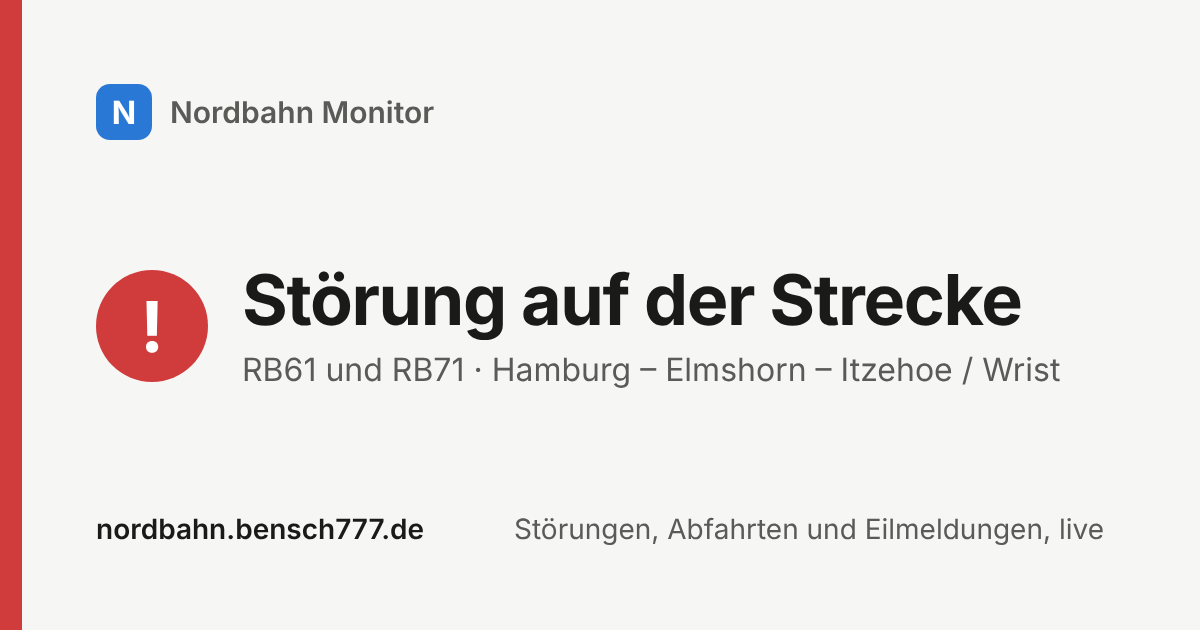
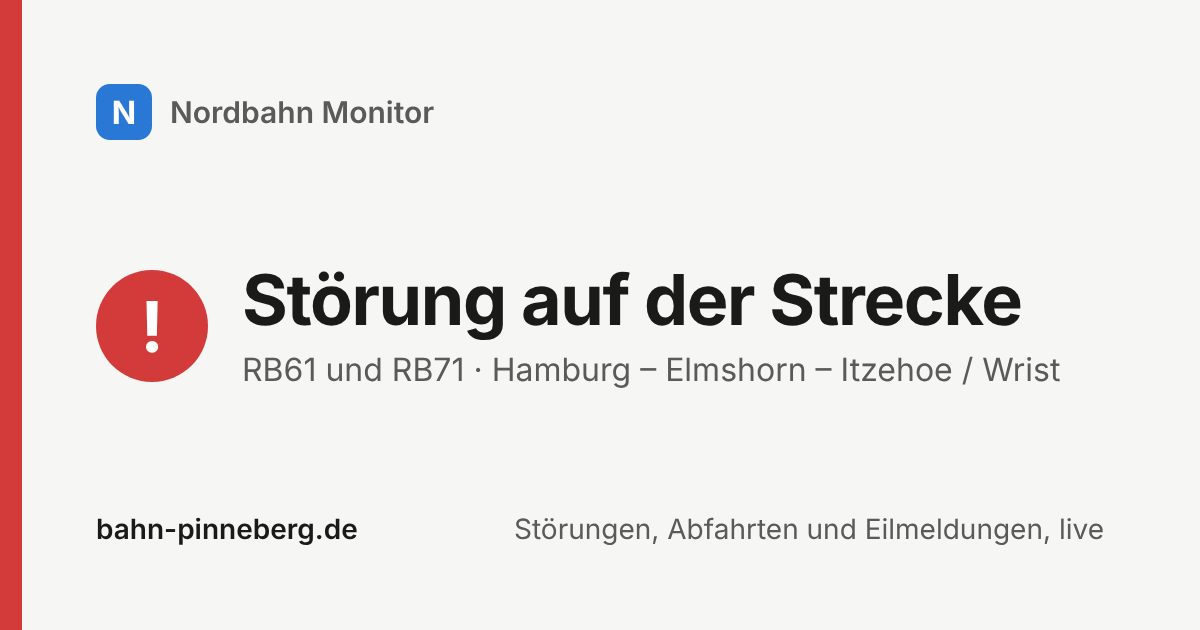
OG-Bilder mit bahn-pinneberg.de, Generator im Repo
Die Vorschaubilder trugen noch nordbahn.bensch777.de im Fuß. Neu
gerendert aus dev/og/template.html mit dev/og/build.js (Playwright), die
Domain kommt aus NORDBAHN_SITE_URL in config.php, sonst bahn-pinneberg.de.

Claude-Session: https://claude.ai/code/session_01MYcYnnq1ZMmvj2WMQQKfwU

Changed region(s): [[0.0925, 0.8143, 0.37, 0.8746]]

diff --git a/dev/og/template.html b/dev/og/template.html
@@ -1,0 +1,25 @@
+<!DOCTYPE html><html lang="de"><head><meta charset="utf-8">
+<style>
+@font-face { font-family: Inter; src: url('../../fonts/inter-400.woff2') format('woff2'); font-weight: 400; }
+@font-face { font-family: Inter; src: url('../../fonts/inter-600.woff2') format('woff2'); font-weight: 600; }
+@font-face { font-family: Inter; src: url('../../fonts/inter-700.woff2') format('woff2'); font-weight: 700; }
+html, body { margin: 0; }
+body { width: 1200px; height: 630px; font-family: Inter, system-ui, sans-serif; background: #f6f6f4; color: #1a1a18; position: relative; overflow: hidden; }
+.bar { position: absolute; left: 0; top: 0; bottom: 0; width: 22px; background: var(--c); }
+.wrap { position: absolute; left: 96px; top: 84px; right: 96px; bottom: 84px; display: flex; flex-direction: column; justify-content: space-between; }
+.brand { display: flex; align-items: center; gap: 18px; font-size: 30px; font-weight: 600; color: #5a5a56; }
+.brand .n { width: 56px; height: 56px; border-radius: 14px; background: #2a78d6; color: #fff; display: flex; align-items: center; justify-content: center; font-weight: 700; font-size: 32px; }
+.status { display: flex; align-items: center; gap: 34px; }
+.icon { width: 112px; height: 112px; border-radius: 50%; background: var(--c); color: #fff; font-size: 70px; font-weight: 700; display: flex; align-items: center; justify-content: center; flex: none; }
+.title { font-size: 70px; font-weight: 700; letter-spacing: -0.02em; line-height: 1.05; }
+.sub { font-size: 32px; color: #5a5a56; margin-top: 14px; }
+.foot { display: flex; justify-content: space-between; font-size: 28px; color: #5a5a56; }
+.foot b { color: #1a1a18; font-weight: 600; }
+</style></head><body>
+<div class="bar"></div>
+<div class="wrap">
+  <div class="brand"><div class="n">N</div>Nordbahn Monitor</div>
+  <div class="status"><div class="icon" id="icon">✓</div><div><div class="title" id="title">Keine Störung auf der Strecke</div><div class="sub">RB61 und RB71 · Hamburg – Elmshorn – Itzehoe / Wrist</div></div></div>
+  <div class="foot"><span><b id="domain">bahn-pinneberg.de</b></span><span>Störungen, Abfahrten und Eilmeldungen, live</span></div>
+</div>
+</body></html>

diff --git a/dev/og/build.js b/dev/og/build.js
@@ -1,0 +1,43 @@
+// Erzeugt die Vorschaubilder og/<lage>.png (1200x630) aus dev/og/template.html.
+//
+//   node dev/og/build.js            (braucht: npm i -g playwright, Chromium)
+//
+// Die Domain im Fuss kommt aus NORDBAHN_SITE_URL in config.php, sonst
+// bahn-pinneberg.de. Farben wie die Lagekarten der Seite.
+const { chromium } = require('playwright');
+const path = require('path');
+const fs = require('fs');
+
+const root = path.resolve(__dirname, '..', '..');
+let domain = 'bahn-pinneberg.de';
+try {
+  const cfg = fs.readFileSync(path.join(root, 'config.php'), 'utf8');
+  const m = cfg.match(/NORDBAHN_SITE_URL'\s*=>\s*'https?:\/\/([^'\/]+)/);
+  if (m) domain = m[1];
+} catch (e) { /* keine config.php: Standard */ }
+
+const LAGEN = [
+  { name: 'ok',    color: '#1aa139', icon: '✓', title: 'Keine Störung auf der Strecke' },
+  { name: 'warn',  color: '#fab219', icon: '!', title: 'Betrieb beeinträchtigt' },
+  { name: 'alert', color: '#d33b3b', icon: '!', title: 'Störung auf der Strecke' },
+  { name: 'info',  color: '#2a78d6', icon: 'i', title: 'Störungen, Abfahrten und Eilmeldungen' },
+];
+
+(async () => {
+  const browser = await chromium.launch();
+  const page = await browser.newPage({ viewport: { width: 1200, height: 630 }, deviceScaleFactor: 1 });
+  await page.goto('file://' + path.join(__dirname, 'template.html'));
+  await page.evaluate(() => document.fonts.ready);
+  for (const l of LAGEN) {
+    await page.evaluate((l) => {
+      document.body.style.setProperty('--c', l.color);
+      document.getElementById('icon').textContent = l.icon;
+      document.getElementById('title').textContent = l.title;
+      document.getElementById('domain').textContent = l.domain;
+    }, { ...l, domain });
+    const out = path.join(root, 'og', l.name + '.png');
+    await page.screenshot({ path: out, type: 'png' });
+    console.log('geschrieben', path.relative(root, out));
+  }
+  await browser.close();
+})();

diff --git a/README.md b/README.md
@@ -47,6 +47,12 @@ Die Abfahrtslogik lässt sich auch gegen gespeicherte XML-Dateien prüfen:
 php api/abfahrten.php --bhf=APD heimat.xml hbf.xml altona.xml dammtor.xml [zuege/]
 ```
 
+Die Vorschaubilder für Messenger und soziale Netze (`og/*.png`) entstehen aus `dev/og/template.html`:
+
+```
+node dev/og/build.js     # braucht Playwright mit Chromium
+```
+
 ## Tests
 
 ```
